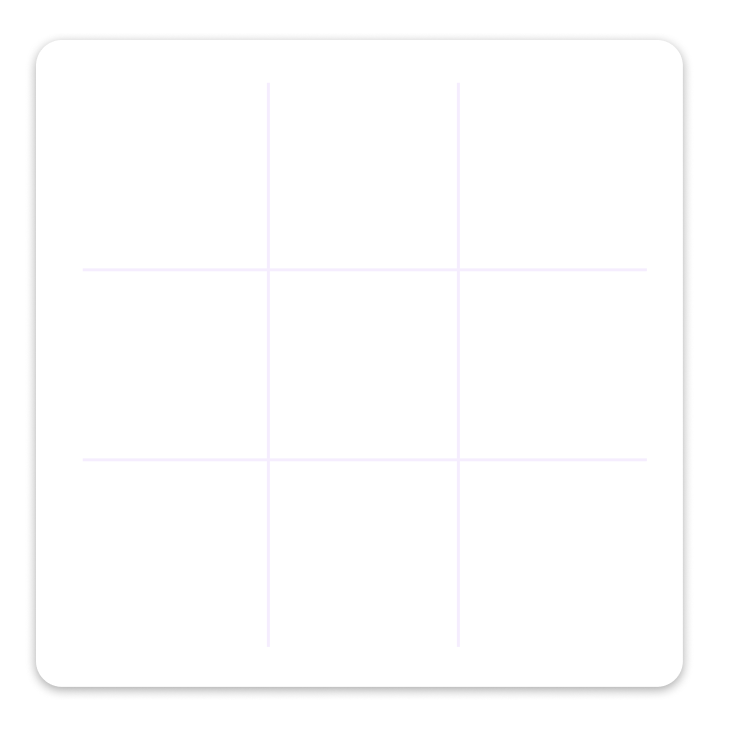
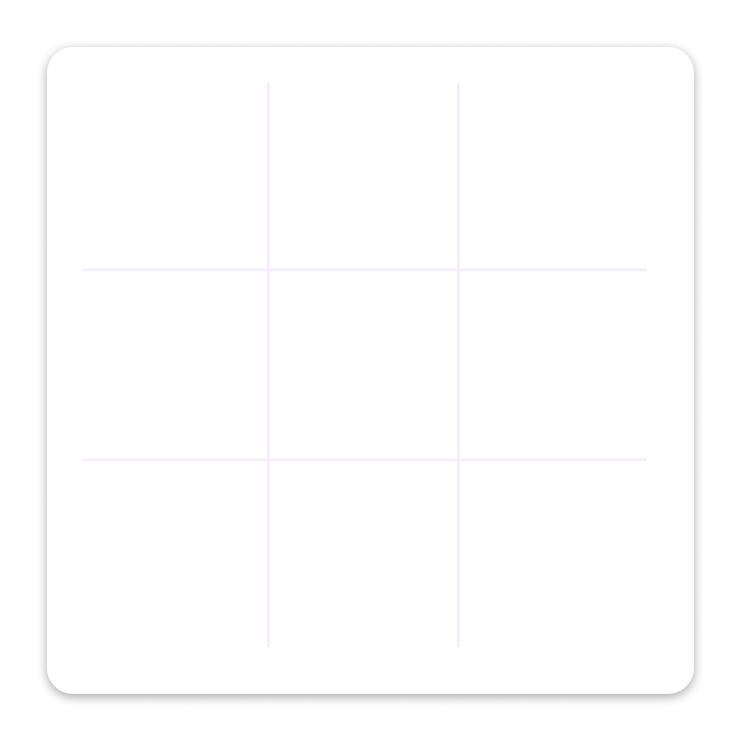
Fixing board image to the center ➡⬅

Changed region(s): [[0.0311, 0.0932, 0.9635, 0.9635]]

diff --git a/main.py b/main.py
@@ -67,7 +67,7 @@ class GUI(QWidget):
             for j in range(3):
                 self.button = QPushButton("", self)
                 self.button.setStyleSheet("background-color: rgba(0, 0, 0, 0); border: none; QPushButton::disabled { color: #6A00B3; }")
-                self.button.setGeometry((81 + i * 189), (82 + j * 190), 186, 186)
+                self.button.setGeometry((81 + i * 190), (82 + j * 190), 186, 186)
                 self.button.clicked.connect(lambda _, i=i, j=j: self.setPlay(i, j))
                 self.button.setObjectName("E" + str(i) + str(j))
                 self.button.show()
@@ -93,6 +93,11 @@ class GUI(QWidget):
         self.turnX = not self.turnX
 
     def checkGameStatus(self):
+        for button in self.findChildren(QPushButton):
+            if "E" in button.objectName():
+                return
+
+        # fake draw
         self.endGame(None)
 
     def endGame(self, winner):
